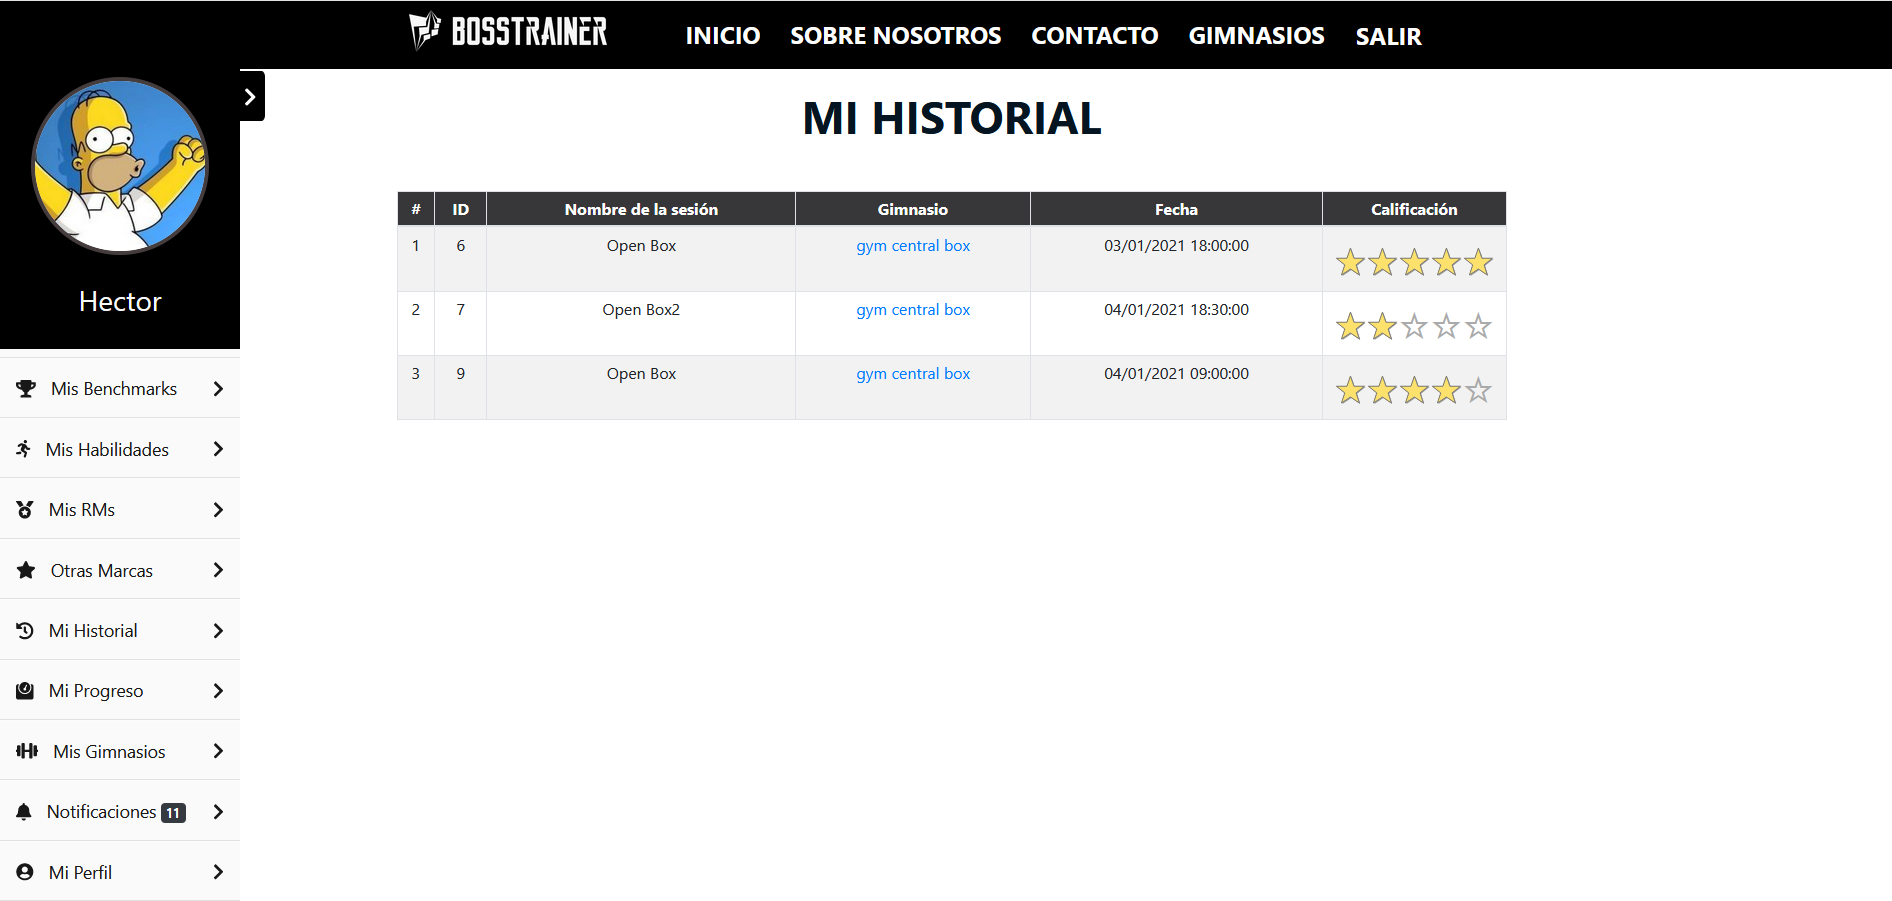
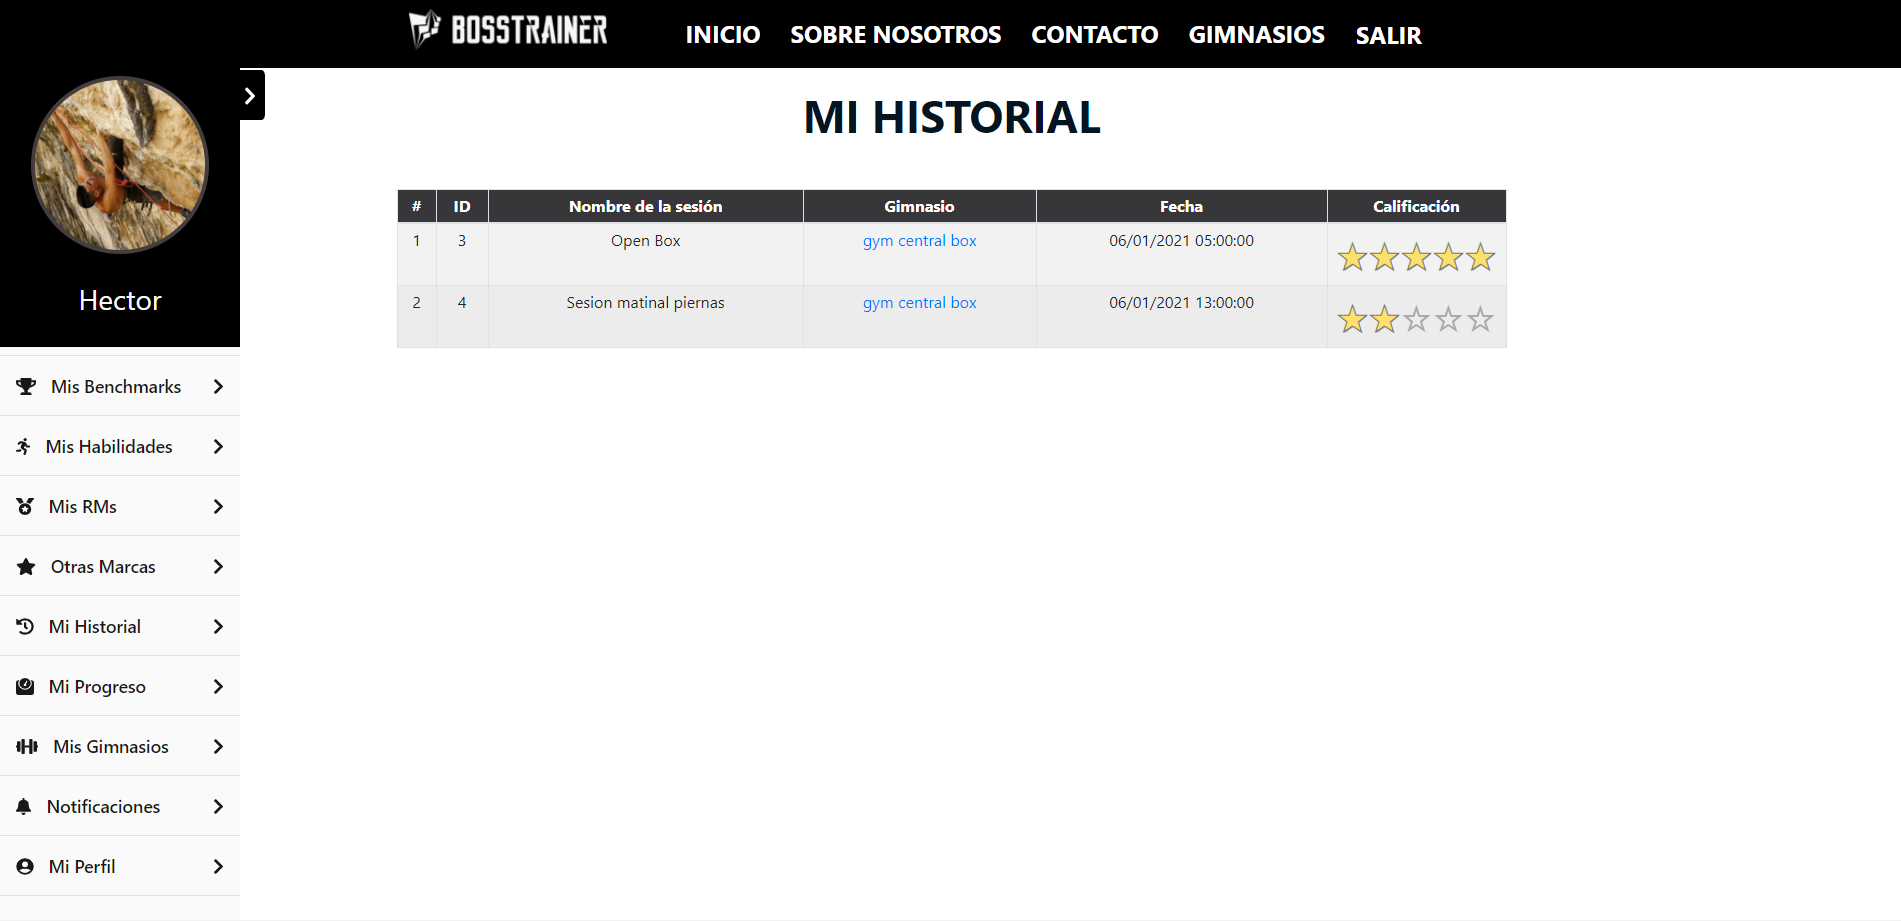
Continuando con la documentación

diff --git a/frontend/controllers/HistoryController.php b/frontend/controllers/HistoryController.php
@@ -42,8 +42,10 @@ class HistoryController extends Controller
     {
         $searchModel = new UserTrainingSessionSearch();
         $dataProvider = new ActiveDataProvider([
-            'query' =>UserTrainingSession::find()->where(['user_id' => Yii::$app->user->identity->id]),
-        ]);;
+            'query' =>UserTrainingSession::find()
+                ->where(['user_id' => Yii::$app->user->identity->id])
+                ->orderBy(['id' => SORT_DESC])
+        ]);
 
         return $this->render('index', [
             'searchModel' => $searchModel,

diff --git a/guia/manual.md b/guia/manual.md
@@ -1,3 +1,135 @@
 # Manual de usuario
 
-Explicar, incluyendo capturas de pantalla.
+## Parte pública
+
+### Página de inicio sin loguearse
+
+![Página de inicio sin loguearse](images/manual/index1.png)
+
+En la página de inicio antes de loguearnos podemos acceder a un formulario de contacto si deseamos información sobre el producto, además tenemos los típicos botones para ***Entrar*** o ***Registrarse*** en caso de que aún no lo estemos.
+
+En el cuerpo podemos encontrar información básica de lo que ofrece la aplicacion, además de ciertas imágenes y esloganes atractivos que van con la temática. 
+
+
+![Página de inicio sin loguearse](images/manual/index2.png)
+---
+
+### Página de login
+
+![Página de login](images/manual/login.png)
+
+En esta página podemos encontrar el logotipo de la web y un formulario de inicio de sesión.
+
+Además está disponible las opciones **Restaurar contraseña** y **reenviar correo de confirmación** que abrirán en ventanas modales un pequeño formulario donde deberemos de introducir la contraseña válida.
+
+![Página de login](images/manual/login2.png)
+---
+
+### Página de Registro
+
+![Página de registro](images/manual/registro.png)
+
+Esta es la página tenemos acceso a un pequeño formulario de registro que nos permitirá crearnos una cuenta de usuario para acceder a la aplicación
+
+En la parte inferior del formulario un mensaje informativo nos indicará los pasos a seguir si queremos registrarnos como gimnasio.
+
+---
+
+### Una vez iniciada sesión
+
+![Página de Secciones](images/manual/secciones.png)
+
+Una vez registrados nos aparecerá una barra de navegación en la parte izquierda que podremos ocultar en la que estarán los enlaces a las distintas partes de la aplicación.
+
+Ademas de nuestra foto de perfil y nuestro nombre de usuario.
+
+---
+
+### Mis benchmarks
+
+![Mis benchmarks](images/manual/benchmark.png)
+
+En esta parte de la aplicación nos encontraremos un listado de los diferentes programas de ejercicios o wods que se han implementados dentro de la aplicación y que están clasificados como benchmarks.
+
+Aquí el usuario podrá añadir, modificar y eliminar sus estadísticas que serán almacenadas en la base de datos y que se compartirán con el resto de usuarios.
+
+Cada ejercicio tiene una descripción (y un enlace a un video), que aparecerá en una ventana modal cuando el usuario haga click en el nombre.
+
+![Mis benchmarks](images/manual/benchmark2.png)
+
+---
+
+### Mis Habilidades
+
+![Mis habilidades](images/manual/habilidades.png)
+
+En esta parte de la aplicación nos encontraremos un listado de los diferentes ejercicios o movimientos implementados dentro de la aplicación y que están clasificados como habilidades.
+
+Aquí el usuario podrá añadir, modificar y eliminar sus estadísticas que serán almacenadas en la base de datos y que se compartirán con el resto de usuarios.
+
+Cada ejercicio tiene una descripción que aparecerá en una ventana modal cuando el usuario haga click en el nombre.
+
+---
+
+### Mis RMS
+
+![Mis RMS](images/manual/rms.png)
+
+En esta parte de la aplicación nos encontraremos un listado de los diferentes ejercicios o movimientos implementados dentro de la aplicación y que están clasificados como Rms.
+
+El usuario deberá introducir la cantidad de carga que puede levantar haciendo el ejercicio correctamente una sola vez.
+
+Aquí el usuario podrá añadir, modificar y eliminar sus estadísticas que serán almacenadas en la base de datos y que se compartirán con el resto de usuarios.
+
+---
+
+### Mis otras marcas
+
+![Mis otras marcas](images/manual/rms.png)
+
+En esta parte de la aplicación nos encontraremos un listado de los diferentes hitos implementados dentro de la aplicación y que están clasificados como otras marcas.
+
+El usuario deberá introducir el tiempo que tarda en completar el hito.
+
+Aquí el usuario podrá añadir, modificar y eliminar sus estadísticas que serán almacenadas en la base de datos y que se compartirán con el resto de usuarios.
+
+---
+
+
+### Mi historial
+
+![Mi historial](images/manual/historial.png)
+
+En esta parte de la aplicación nos encontraremos un listado de las diferentes sesiones de entrenamiento en las que el usuario ha participado.
+
+El usuario tiene la opción de valorar la sesión además cada sesión cuenta con un enlace al gimnasio a la que pertenece. 
+
+---
+
+### Mi progreso
+
+![Mi progreso](images/manual/progreso.png)
+
+En esta parte de la aplicación nos encontraremos una gráfica en la que de un vistazo mostrará en orden cronológico los progresos que el usuario vaya realizando en cuanto a peso corporal se trata.
+
+Esta gráfica cuenta con la opción de exportar los datos a pdf o a png, jpg o vector de imágenes svg. Además podremos incluso imprimirla.
+
+En la sección intermedia contamos con otra tabla que facilitará al usuario la visualización de los datos y cuenta con la opción de eliminar los registros si el usuario lo desea.
+
+En la parte superior izquierda hay un botón para añadir registros a nuestra tabla.
+
+![Mi progreso](images/manual/progreso2.png)
+
+---
+
+### Mi perfil
+
+![Mi perfil](images/manual/perfil.png)
+
+En esta página podremos configurar todo lo relacionado con la cuenta del usuario:
+1. **Avatar**
+- Aquí se eligirá la foto de perfil del usuario.
+2. **Cambiar contraseña**
+- Aquí se podrá cambiar la contraseña de acceso a la aplicación. Por seguridad se pedirá la contraseña antigua y por duplicado la nueva.
+
+---
